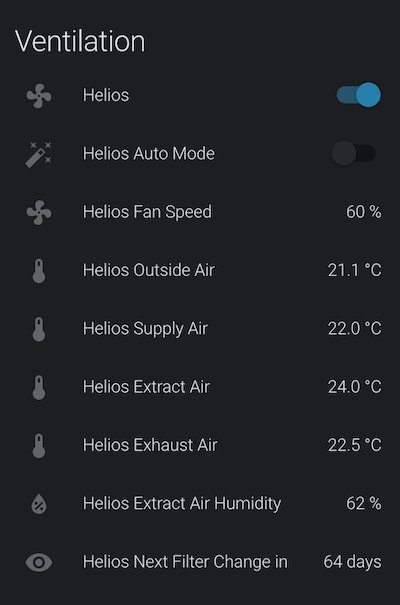
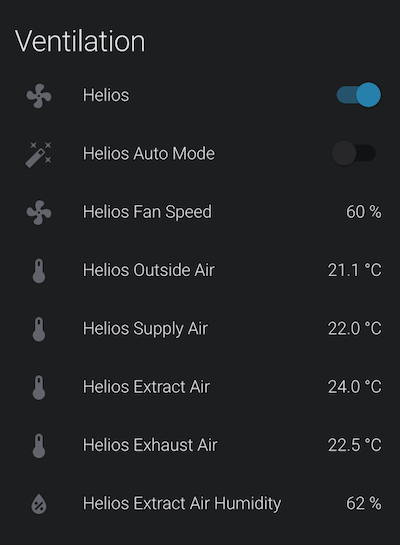
README updated: HACS setup and configuration via UI

diff --git a/README.md b/README.md
@@ -4,37 +4,21 @@
 
 Custom component for Home Assistant to connect Helios ventilation system.
 
-Tested on Helios KWL EC 300 W. Most of functions will work on other Helios devices.
+Tested on Helios KWL EC 300 W. Most functions will work on other Helios devices.
 
 ![Example screenshot](screenshot.png)
 
 ## Installation
 
-1. Make sure your Helios is connected to local network and you know it's IP address.
-2. Copy the custom_components folder to your own Home Assistant /config folder.
-3. Enable the component by adding the following in your `configuration.yml`:
-```yaml
-helios:
-    host: IP_ADDRESS_OF_HELIOS_DEVICE
-```
-4. Restart Home Assistant server
+1. Make sure your Helios has been connected to local network, and you know it's IP address.
 
-## Configuration
+2. Install **Helios ventilation** via HACS or copy the custom_components folder to your own Home Assistant /config folder.
 
-- `name` (optional) Name of a fan entity. All other entities will start with this name. By default it's `Helios`
-```yaml
-helios:
-    host: !secret ip_helios
-    name: "Office Vent"
-```
+3. Once Home Assistant has restarted, go to Configuration > Integrations.
 
-- `next_filter_change` (optional) configuration variable with date of next filter change.
-It can be used to setup automated reminder for filter change.
-```yaml
-helios:
-    host: !secret ip_helios
-    next_filter_change: "2020-08-08"
-```
+4. Select the Helios integration and finish the setup.
+
+Done. `fan.NAME` (default `fan.helios`) entity should be available in Home Assistant.
 
 ## Extra: Boost and Whisper modes
 
@@ -99,7 +83,6 @@ input_select:
             name: Helios Boost
             action_name: 'Start/Stop' 
 ```
-
 
 ## Feedback
 
